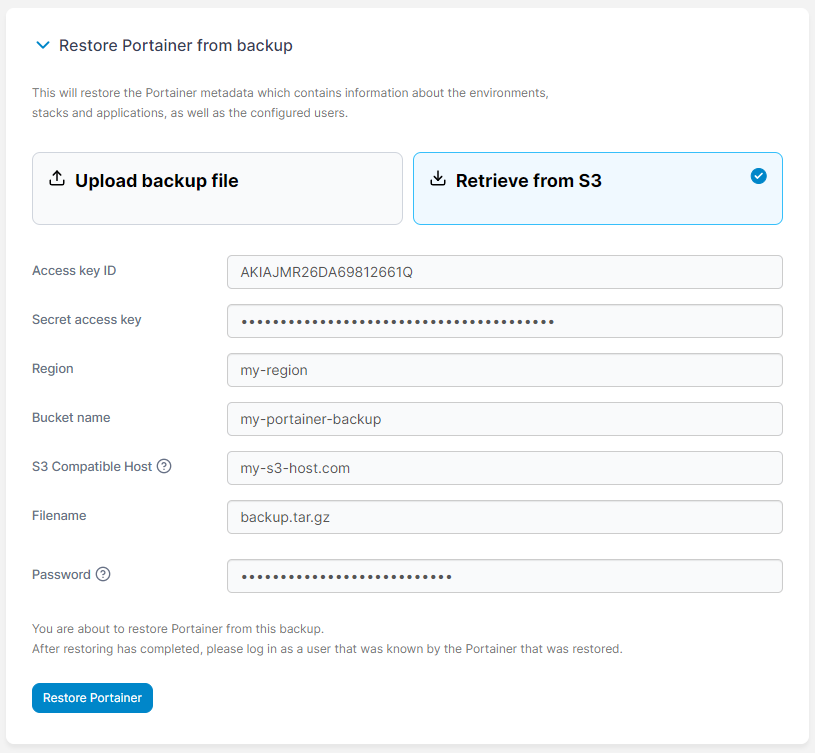
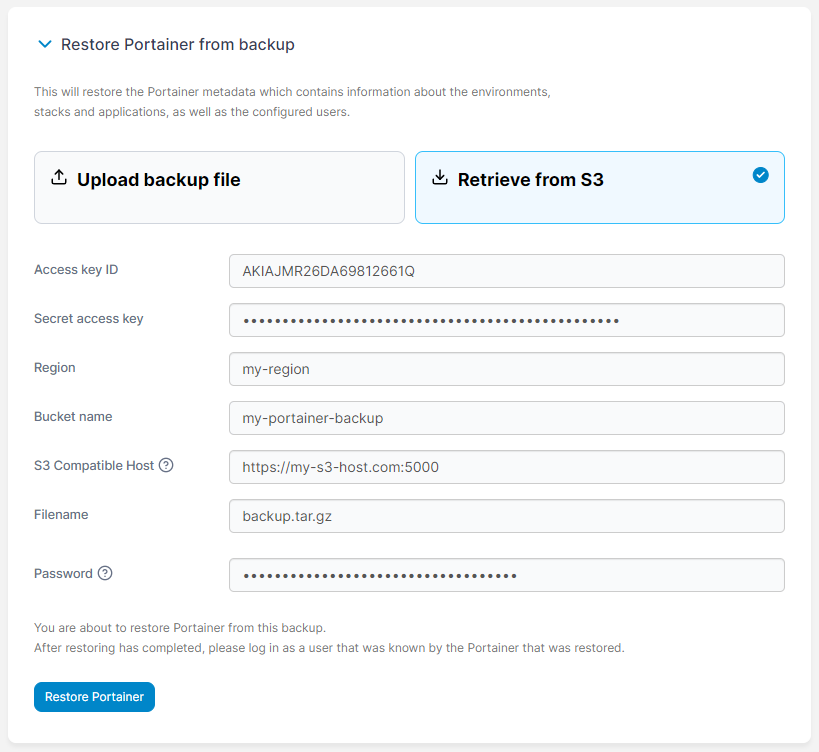
GITBOOK-40: Add BE note to new image notification toggle, update screenshots for S3 backup / restore

diff --git a/admin/settings/README.md b/admin/settings/README.md
@@ -125,7 +125,7 @@ Select **Store in S3** and fill in the options, using the below as a guide.
 | Secret Access Key          | Enter the secret key for your S3 bucket.                                                                                                                                                                                                                                                                      |
 | Region                     | Enter the region where your bucket is located (for example, `us-west-1`).                                                                                                                                                                                                                                     |
 | Bucket name                | Enter the name of your S3 bucket.                                                                                                                                                                                                                                                                             |
-| S3 compatible host         | If you are using a non-AWS S3-compatible provider (such as MinIO), enter the hostname here. If you're using AWS S3, leave this blank.                                                                                                                                                                         |
+| S3 compatible host         | If you are using a non-AWS S3-compatible provider (such as MinIO), enter the URL (including the protocol and port if necessary) here. If you're using AWS S3, leave this blank.                                                                                                                               |
 | Password protect           | Enable this to protect your backups with a password.                                                                                                                                                                                                                                                          |
 | Password                   | Enter the password to set on your backups.                                                                                                                                                                                                                                                                    |
 
@@ -149,15 +149,15 @@ This feature is only available in Portainer Business Edition.
 
 Restoring a configuration is only possible on a fresh instance of Portainer during the initial installation. When you need to restore Portainer, deploy a fresh instance of Portainer with an empty data volume and choose the **Restore Portainer from backup** option during setup, making sure to select **Retrieve from S3**. Complete the fields using the table below as a guide.
 
-| Field/Option       | Overview                                                                                                                              |
-| ------------------ | ------------------------------------------------------------------------------------------------------------------------------------- |
-| Access key ID      | Enter the access key ID for your S3 bucket.                                                                                           |
-| Secret access key  | Enter the secret key for your S3 bucket.                                                                                              |
-| Region             | Enter the region where your bucket is located (for example, `us-west-1`).                                                             |
-| Bucket name        | Enter the name of your S3 bucket.                                                                                                     |
-| S3 Compatible Host | If you are using a non-AWS S3-compatible provider (such as MinIO), enter the hostname here. If you're using AWS S3, leave this blank. |
-| Filename           | Enter the filename of the backup you want to restore.                                                                                 |
-| Password           | Enter the password set on your backup (if any).                                                                                       |
+| Field/Option       | Overview                                                                                                                                                                        |
+| ------------------ | ------------------------------------------------------------------------------------------------------------------------------------------------------------------------------- |
+| Access key ID      | Enter the access key ID for your S3 bucket.                                                                                                                                     |
+| Secret access key  | Enter the secret key for your S3 bucket.                                                                                                                                        |
+| Region             | Enter the region where your bucket is located (for example, `us-west-1`).                                                                                                       |
+| Bucket name        | Enter the name of your S3 bucket.                                                                                                                                               |
+| S3 Compatible Host | If you are using a non-AWS S3-compatible provider (such as MinIO), enter the URL (including the protocol and port if necessary) here. If you're using AWS S3, leave this blank. |
+| Filename           | Enter the filename of the backup you want to restore.                                                                                                                           |
+| Password           | Enter the password set on your backup (if any).                                                                                                                                 |
 
 <figure><img src="../../.gitbook/assets/2.17-admin-settings-backup-s3-restore.png" alt=""><figcaption></figcaption></figure>
 

diff --git a/user/docker/host/setup.md b/user/docker/host/setup.md
@@ -66,6 +66,6 @@ This section contains other assorted environment-specific settings.
 
 <figure><img src="../../../.gitbook/assets/2.16-docker-host-setup-other.png" alt=""><figcaption></figcaption></figure>
 
-| Option                                                                     | Overview                                                                                                                          |
-| -------------------------------------------------------------------------- | --------------------------------------------------------------------------------------------------------------------------------- |
-| Show a notification to indicate out-of-date images for Docker environments | Toggle on to enable the [new image notification](../containers/) feature for this environment. Toggle off to disable the feature. |
+| Option                                                                     | Overview                                                                                                                                                                                                                 |
+| -------------------------------------------------------------------------- | ------------------------------------------------------------------------------------------------------------------------------------------------------------------------------------------------------------------------ |
+| Show a notification to indicate out-of-date images for Docker environments | <p>Toggle on to enable the <a href="../containers/">new image notification</a> feature for this environment. Toggle off to disable the feature.<br><br>This feature is only available in Portainer Business Edition.</p> |

diff --git a/user/docker/swarm/setup.md b/user/docker/swarm/setup.md
@@ -55,6 +55,6 @@ This section contains other assorted environment-specific settings.
 
 <figure><img src="../../../.gitbook/assets/2.16-docker-host-setup-other.png" alt=""><figcaption></figcaption></figure>
 
-| Option                                                                     | Overview                                                                                                                        |
-| -------------------------------------------------------------------------- | ------------------------------------------------------------------------------------------------------------------------------- |
-| Show a notification to indicate out-of-date images for Docker environments | Toggle on to enable the [new image notification](../services/) feature for this environment. Toggle off to disable the feature. |
+| Option                                                                     | Overview                                                                                                                                                                                                               |
+| -------------------------------------------------------------------------- | ---------------------------------------------------------------------------------------------------------------------------------------------------------------------------------------------------------------------- |
+| Show a notification to indicate out-of-date images for Docker environments | <p>Toggle on to enable the <a href="../services/">new image notification</a> feature for this environment. Toggle off to disable the feature.<br><br>This feature is only available in Portainer Business Edition.</p> |
